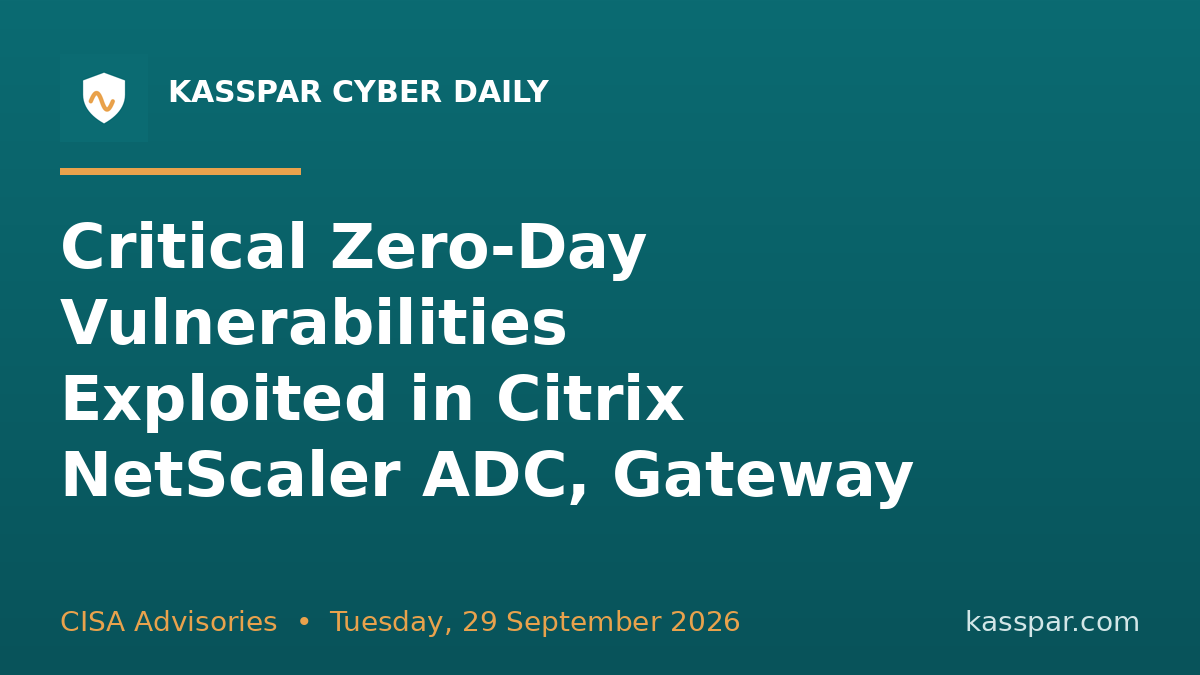
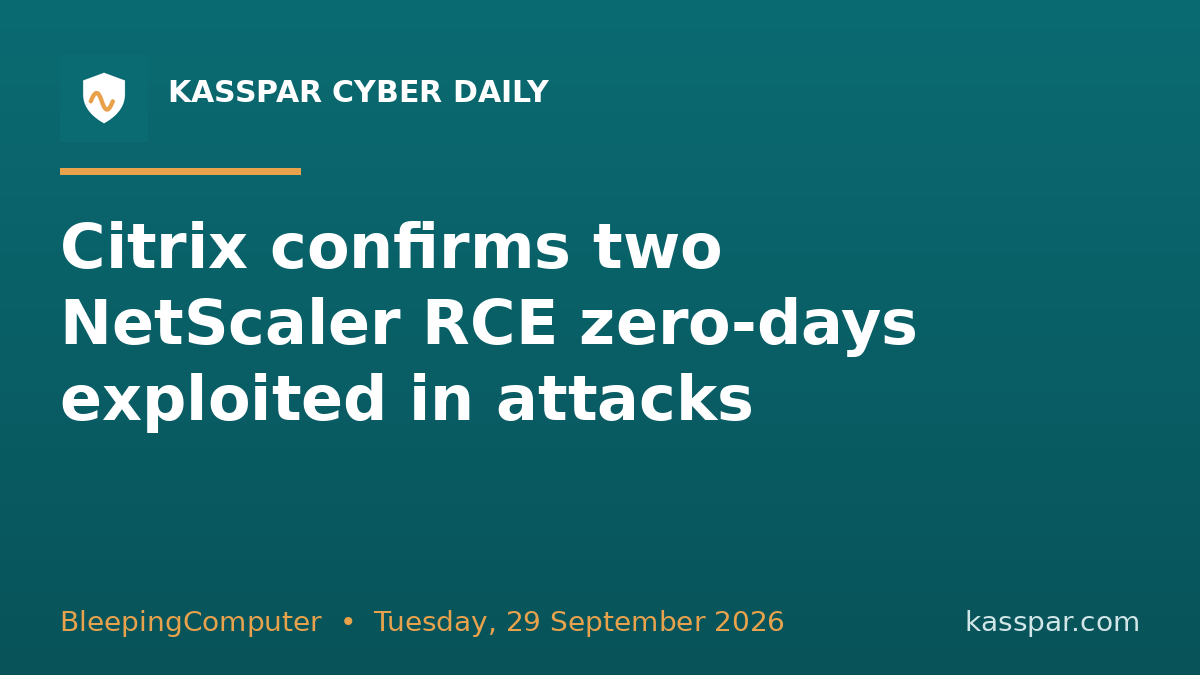
chore: archive 2026-09-29

diff --git a/site/archive/2026-09-29/index.html b/site/archive/2026-09-29/index.html
@@ -69,28 +69,28 @@
       <article class="card primary">
         <div class="badge">TODAY&#x27;S TOP STORY</div>
         <img class="thumb" src="card_0.png" alt="headline card" loading="lazy"/>
-        <h2>Critical Zero-Day Vulnerabilities Exploited in Citrix NetScaler ADC, Gateway</h2>
-        <p class="src">CISA Advisories</p>
+        <h2>Citrix confirms two NetScaler RCE zero-days exploited in attacks</h2>
+        <p class="src">BleepingComputer</p>
 
         <div class="post">
-          <div class="post-h">X / Twitter <span>182/280</span></div>
-          <pre id="x0">🚨 Actively exploited: Critical Zero-Day Vulnerabilities Exploited in Citrix NetScaler ADC, Gateway
+          <div class="post-h">X / Twitter <span>169/280</span></div>
+          <pre id="x0">🛠 Heads up, admins: Citrix confirms two NetScaler RCE zero-days exploited in attacks
 Patch fast — attackers already are.
 #CyberSecurity #InfoSec
-https://www.cisa.gov/news-events/alerts/2026/09/27/critical-zero-day-vulnerabilities-exploited-citrix-netscaler-adc-gateway</pre>
+https://www.bleepingcomputer.com/news/security/citrix-admins-warned-to-shut-down-netscalers-over-2-exploited-zero-days/</pre>
           <div class="btns">
-            <a class="btn x" href="https://x.com/intent/tweet?text=%F0%9F%9A%A8%20Actively%20exploited%3A%20Critical%20Zero-Day%20Vulnerabilities%20Exploited%20in%20Citrix%20NetScaler%20ADC%2C%20Gateway%0APatch%20fast%20%E2%80%94%20attackers%20already%20are.%0A%23CyberSecurity%20%23InfoSec%0Ahttps%3A//www.cisa.gov/news-events/alerts/2026/09/27/critical-zero-day-vulnerabilities-exploited-citrix-netscaler-adc-gateway" target="_blank" rel="noopener">Post to X ↗</a>
+            <a class="btn x" href="https://x.com/intent/tweet?text=%F0%9F%9B%A0%EF%B8%8F%20Heads%20up%2C%20admins%3A%20Citrix%20confirms%20two%20NetScaler%20RCE%20zero-days%20exploited%20in%20attacks%0APatch%20fast%20%E2%80%94%20attackers%20already%20are.%0A%23CyberSecurity%20%23InfoSec%0Ahttps%3A//www.bleepingcomputer.com/news/security/citrix-admins-warned-to-shut-down-netscalers-over-2-exploited-zero-days/" target="_blank" rel="noopener">Post to X ↗</a>
             <button class="btn ghost" onclick="copyEl('x0',this)">Copy</button>
           </div>
         </div>
 
         <div class="post">
           <div class="post-h">LinkedIn</div>
-          <pre id="li0">🔐 Critical Zero-Day Vulnerabilities Exploited in Citrix NetScaler ADC, Gateway
+          <pre id="li0">🔐 Citrix confirms two NetScaler RCE zero-days exploited in attacks
 
 A vulnerability worth acting on today 👇
 
-CISA is amplifying Citrix’s disclosure of eight new vulnerabilities affecting Citrix NetScaler ADC and Citrix NetScaler Gateway products: CVE-2026-88771 , CVE-2026-88772 , CVE-2026-88773 , CVE-2026-88774 , CVE-2026-88775 , CVE-2026-88776 , CVE-2026-88777 , and CVE-2026-88778 . CISA has added CVE-2026-88771 and CVE-2026-88772 to its Known Exploited Vulnerabilities (KEV) Catalog . Both are…
+Citrix has confirmed that two critical NetScaler remote code execution vulnerabilities, tracked as CVE-2026-88771 and CVE-2026-88772, are being exploited in attacks and that it has released security updates to fix the flaws. [...]
 
 ⚡ Why it matters: Patch affected systems promptly and confirm the fix actually applied.
 
@@ -102,7 +102,7 @@ Are your systems covered? What&#x27;s your team doing about this? 💬
             <button class="btn ghost" onclick="copyEl('li0',this)">Copy</button>
           </div>
           <p class="hint">✅ Tip: post the text above, then add the link below as the <b>first comment</b> (keeps reach up &amp; avoids spam flags).</p>
-          <pre id="lc0">🔗 Source (CISA Advisories): https://www.cisa.gov/news-events/alerts/2026/09/27/critical-zero-day-vulnerabilities-exploited-citrix-netscaler-adc-gateway</pre>
+          <pre id="lc0">🔗 Source (BleepingComputer): https://www.bleepingcomputer.com/news/security/citrix-admins-warned-to-shut-down-netscalers-over-2-exploited-zero-days/</pre>
           <div class="btns">
             <button class="btn ghost" onclick="copyEl('lc0',this)">Copy link for first comment</button>
           </div>
@@ -153,28 +153,28 @@ Are your systems covered? What&#x27;s your team doing about this? 💬
       <article class="card">
         <div class="badge">ALSO WORTH SHARING #2</div>
         <img class="thumb" src="card_2.png" alt="headline card" loading="lazy"/>
-        <h2>CISA Adds Two Known Exploited Vulnerabilities to Catalog</h2>
-        <p class="src">CISA Advisories</p>
+        <h2>CISA orders feds to patch exploited Citrix flaws by Wednesday</h2>
+        <p class="src">BleepingComputer</p>
 
         <div class="post">
-          <div class="post-h">X / Twitter <span>233/280</span></div>
-          <pre id="x2">⚠ Patch now: CISA has added two new vulnerabilities to its Known Exploited Vulnerabilities (KEV) Catalog , based on evidence of active exploitation.
+          <div class="post-h">X / Twitter <span>181/280</span></div>
+          <pre id="x2">🛠 Heads up, admins: The Cybersecurity and Infrastructure Security Agency (CISA) has ordered U.S.
 Patch fast — attackers already are.
 #CyberSecurity #InfoSec
-https://www.cisa.gov/news-events/alerts/2026/09/27/cisa-adds-two-known-exploited-vulnerabilities-catalog</pre>
+https://www.bleepingcomputer.com/news/security/cisa-orders-feds-to-patch-exploited-citrix-flaws-by-wednesday/</pre>
           <div class="btns">
-            <a class="btn x" href="https://x.com/intent/tweet?text=%E2%9A%A0%EF%B8%8F%20Patch%20now%3A%20CISA%20has%20added%20two%20new%20vulnerabilities%20to%20its%20Known%20Exploited%20Vulnerabilities%20%28KEV%29%20Catalog%20%2C%20based%20on%20evidence%20of%20active%20exploitation.%0APatch%20fast%20%E2%80%94%20attackers%20already%20are.%0A%23CyberSecurity%20%23InfoSec%0Ahttps%3A//www.cisa.gov/news-events/alerts/2026/09/27/cisa-adds-two-known-exploited-vulnerabilities-catalog" target="_blank" rel="noopener">Post to X ↗</a>
+            <a class="btn x" href="https://x.com/intent/tweet?text=%F0%9F%9B%A0%EF%B8%8F%20Heads%20up%2C%20admins%3A%20The%20Cybersecurity%20and%20Infrastructure%20Security%20Agency%20%28CISA%29%20has%20ordered%20U.S.%0APatch%20fast%20%E2%80%94%20attackers%20already%20are.%0A%23CyberSecurity%20%23InfoSec%0Ahttps%3A//www.bleepingcomputer.com/news/security/cisa-orders-feds-to-patch-exploited-citrix-flaws-by-wednesday/" target="_blank" rel="noopener">Post to X ↗</a>
             <button class="btn ghost" onclick="copyEl('x2',this)">Copy</button>
           </div>
         </div>
 
         <div class="post">
           <div class="post-h">LinkedIn</div>
-          <pre id="li2">🔐 CISA Adds Two Known Exploited Vulnerabilities to Catalog
+          <pre id="li2">🔐 CISA orders feds to patch exploited Citrix flaws by Wednesday
 
 A vulnerability worth acting on today 👇
 
-CISA has added two new vulnerabilities to its Known Exploited Vulnerabilities (KEV) Catalog , based on evidence of active exploitation. CVE-2026-88771 Citrix NetScaler Improper Input Validation Vulnerability CVE-2026-88772 Citrix NetScaler Improper Restriction of Operations within the Bounds of a Memory Buffer Vulnerability These types of vulnerabilities are frequent attack vectors for malicious…
+The Cybersecurity and Infrastructure Security Agency (CISA) has ordered U.S. government agencies over the weekend to secure their systems against attacks exploiting two critical Citrix NetScaler vulnerabilities. [...]
 
 ⚡ Why it matters: Patch affected systems promptly and confirm the fix actually applied.
 
@@ -186,7 +186,7 @@ Are your systems covered? What&#x27;s your team doing about this? 💬
             <button class="btn ghost" onclick="copyEl('li2',this)">Copy</button>
           </div>
           <p class="hint">✅ Tip: post the text above, then add the link below as the <b>first comment</b> (keeps reach up &amp; avoids spam flags).</p>
-          <pre id="lc2">🔗 Source (CISA Advisories): https://www.cisa.gov/news-events/alerts/2026/09/27/cisa-adds-two-known-exploited-vulnerabilities-catalog</pre>
+          <pre id="lc2">🔗 Source (BleepingComputer): https://www.bleepingcomputer.com/news/security/cisa-orders-feds-to-patch-exploited-citrix-flaws-by-wednesday/</pre>
           <div class="btns">
             <button class="btn ghost" onclick="copyEl('lc2',this)">Copy link for first comment</button>
           </div>

diff --git a/site/archive/index.html b/site/archive/index.html
@@ -68,7 +68,7 @@
 <ul class="arc-list">
       <li>
         <a href="2026-09-29/">2026-09-29</a>
-        <div class="titles">Critical Zero-Day Vulnerabilities Exploited in Citrix NetScaler ADC, Gateway · Apple Patches CoreGraphics Flaw Possibly Exploited in Targeted Attacks · CISA Adds Two Known Exploited Vulnerabilities to Catalog</div>
+        <div class="titles">Citrix confirms two NetScaler RCE zero-days exploited in attacks · Apple Patches CoreGraphics Flaw Possibly Exploited in Targeted Attacks · CISA orders feds to patch exploited Citrix flaws by Wednesday</div>
       </li></ul>
 </main>
 <footer>Auto-curated from trusted security sources. You approve every post.<br/>kasspar.com</footer>
